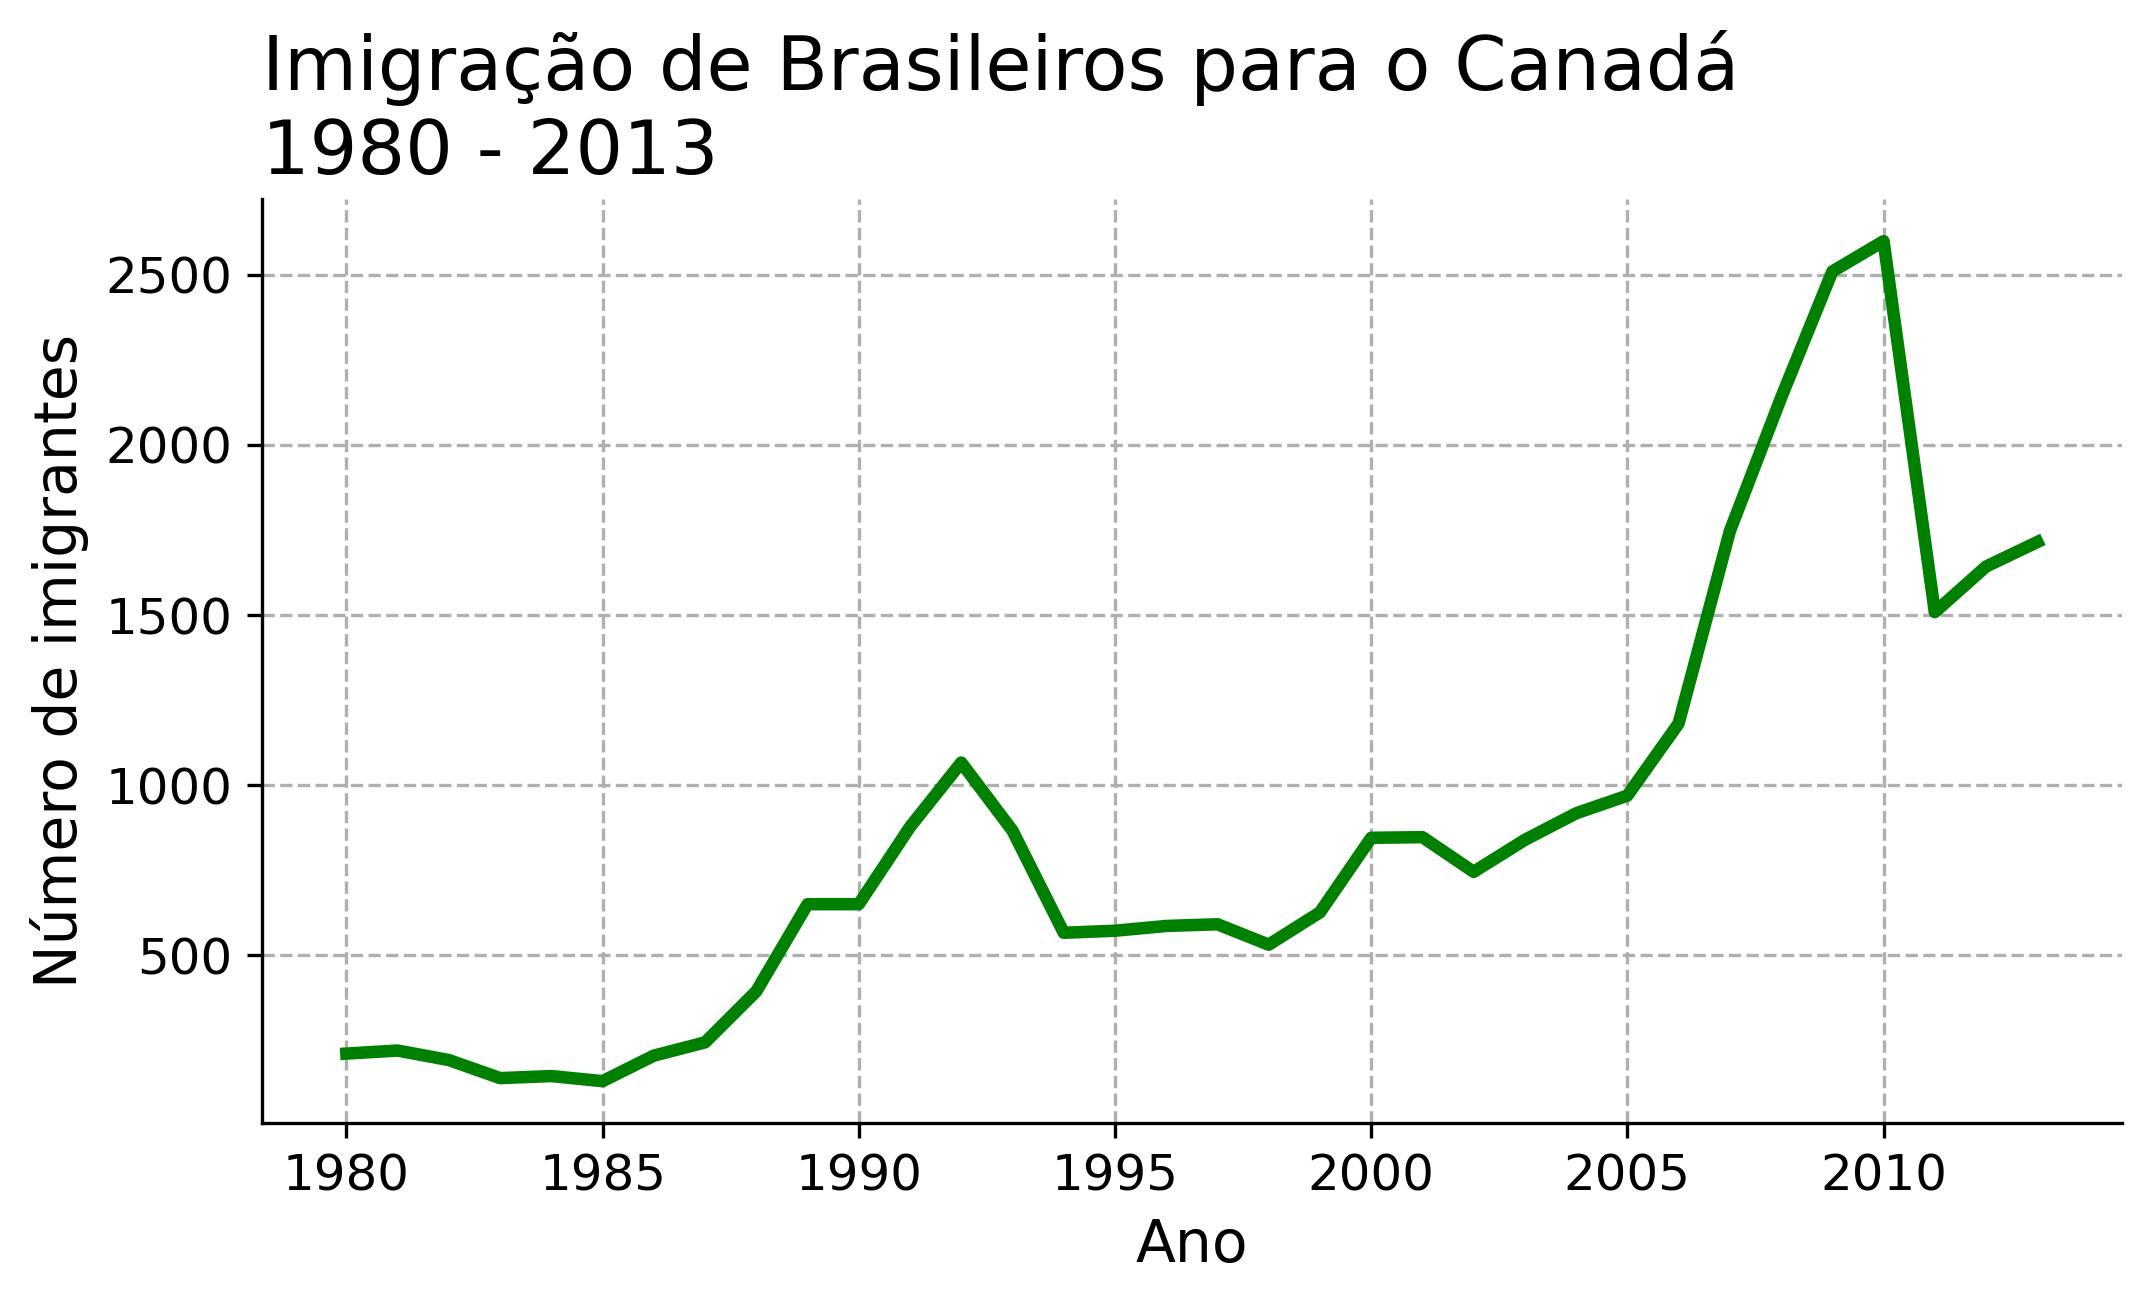
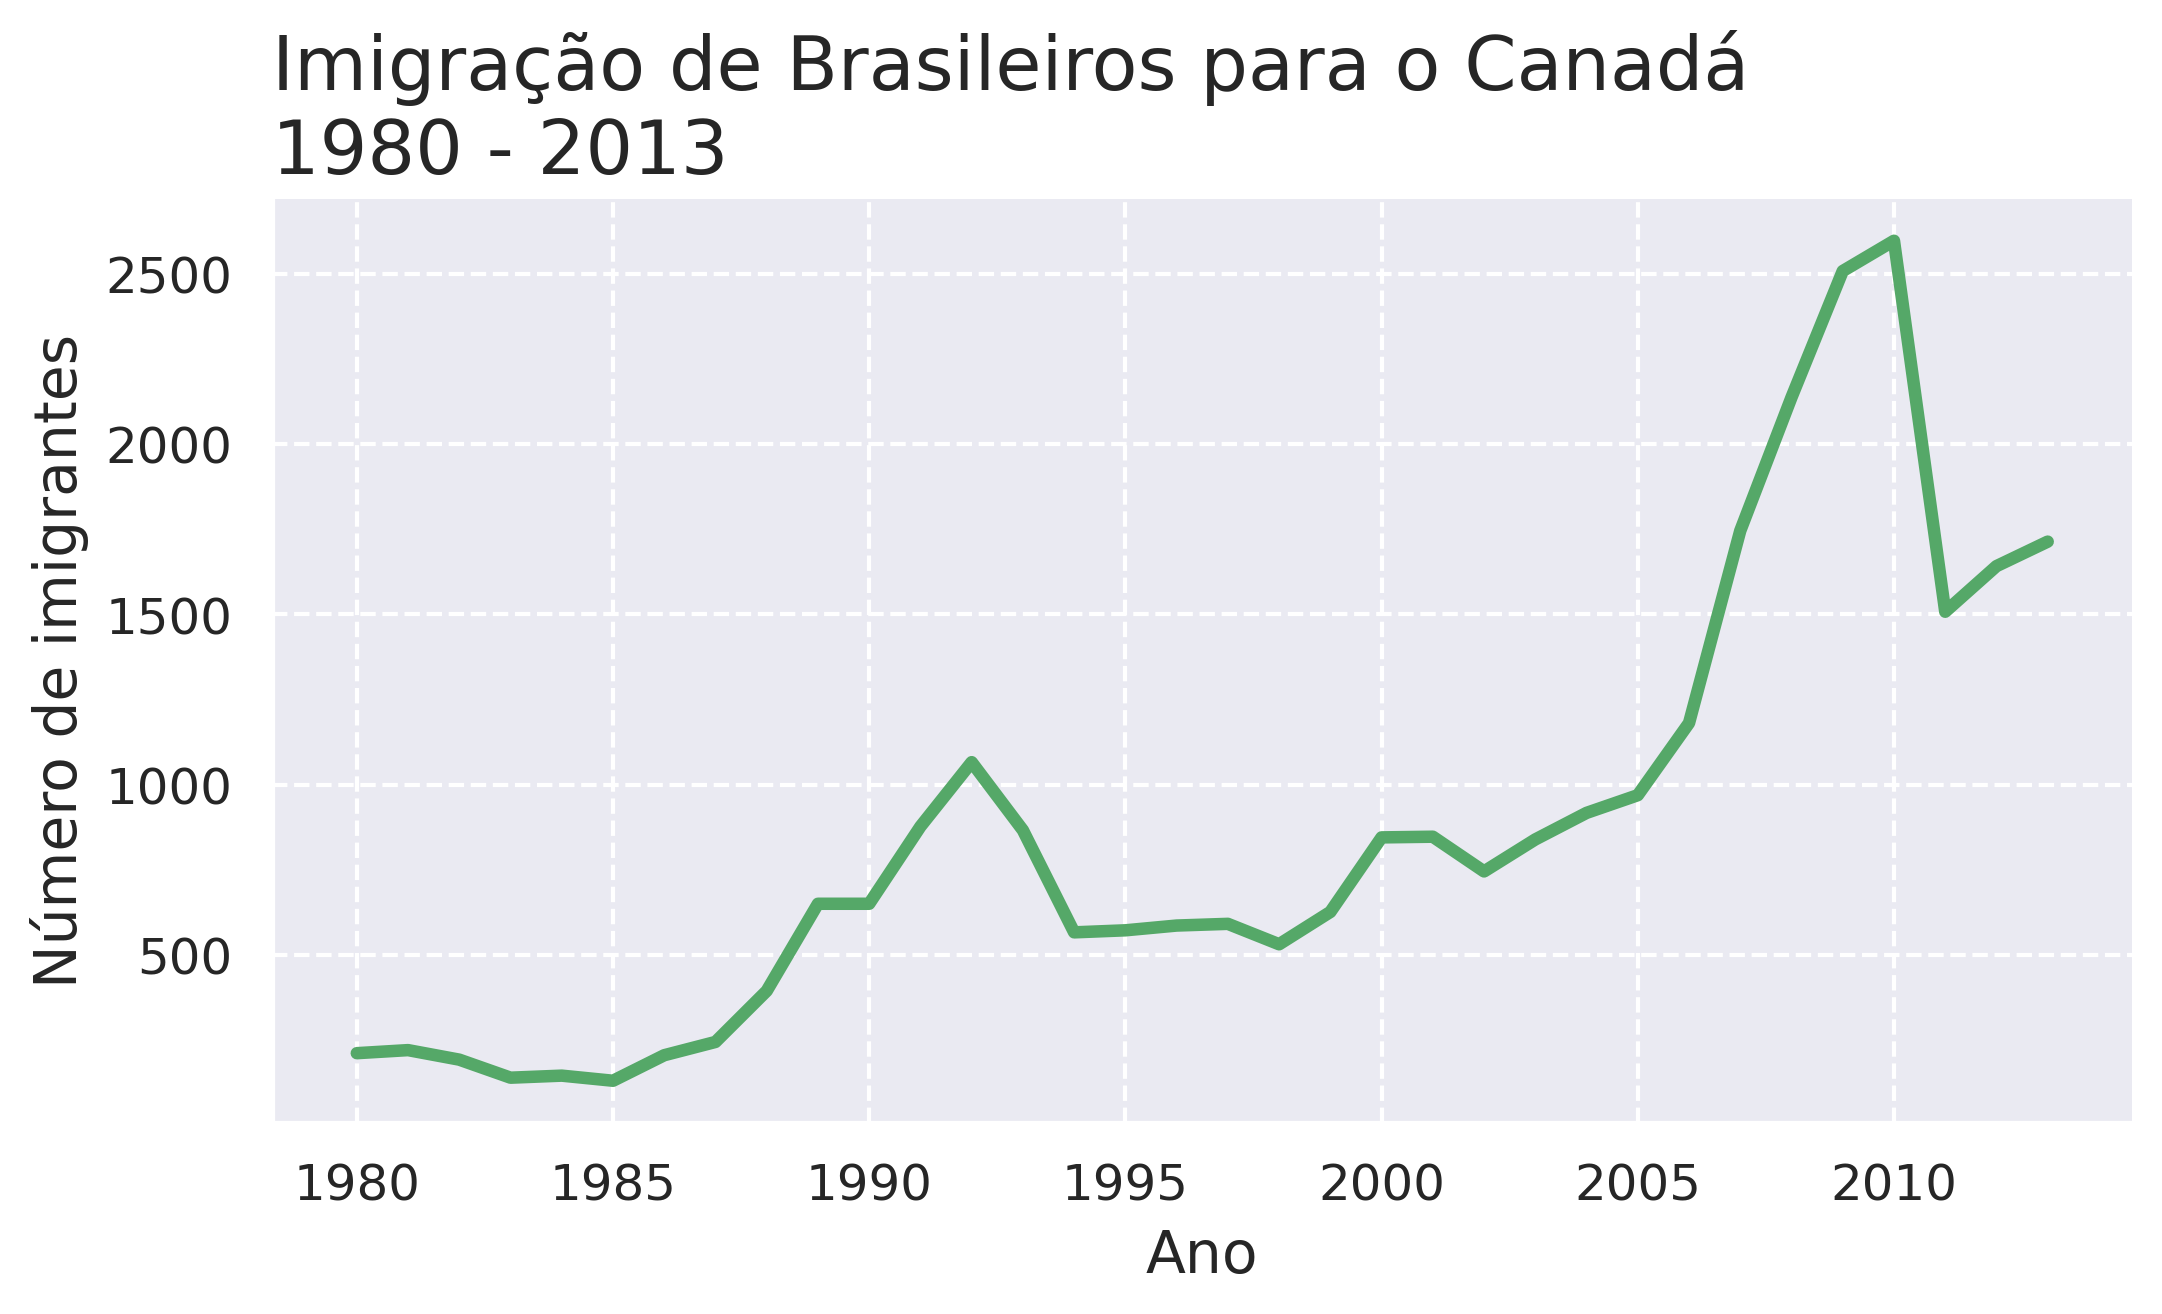
creating the first interactive graph

diff --git a/02-formacao_aprendendo-a-fazer-ETL/05-data-visualization_conhecendo-as-bibliotecas-python/05-graficos-interativos-com-plotly/desafio_criando-uma-animacao-para-comparar-diferentes-dados.py b/02-formacao_aprendendo-a-fazer-ETL/05-data-visualization_conhecendo-as-bibliotecas-python/05-graficos-interativos-com-plotly/desafio_criando-uma-animacao-para-comparar-diferentes-dados.py
@@ -1,0 +1,34 @@
+# Enunciado do desafio:
+'''
+Na atividade anterior foi possível compreender como criar uma animação com a biblioteca Plotly. Agora vem mais um desafio!
+
+Lembra que nós criamos uma figura estática contendo os dados de imigração do Brasil e Argentina? Sua tarefa é criar um gráfico animado com o Plotly que mostre esses dados. O gráfico deve ter as seguintes características:
+
+Duas linhas: uma para o Brasil e outra para a Argentina.
+Um botão "Play" para iniciar a animação, mostrando o aumento ou diminuição do número de imigrantes ao longo dos anos.
+As configurações de animação devem fazer com que as duas linhas sejam exibidas e animadas ao mesmo tempo.
+Dicas:
+
+Crie um DataFrame com os dados da Argentina e não se esqueça de deixar a coluna de anos no tipo int(inteiro).
+Use o código fornecido para o Brasil como base e adapte-o para incluir os dados da Argentina.
+Para configurar as animações você pode fazer um Loop for para percorrer o DataFrame dados_brasil e para cada iteração, criar uma nova lista contendo dois objetos do tipo go.Scatter, um para cada país. Em seguida, cada lista pode ser usada para criar um objeto go.Frame, que é adicionado à lista de frames. Por fim, a lista de frames pode ser atribuída ao objeto fig, que é a figura do gráfico a ser animado. Com isso, quando a animação for iniciada, o gráfico exibirá as duas linhas em movimento, uma para o Brasil e outra para a Argentina.
+'''
+
+# # Imports
+#
+import os
+import sys
+import re
+import pandas as pd
+import matplotlib.pyplot as plt
+
+cwd = os.getcwd()
+while bool(re.search(r'\d-', cwd)):
+    cwd = os.path.dirname(cwd)
+load_data_path = os.path.join(cwd)
+if load_data_path not in sys.path:
+    sys.path.append(load_data_path)
+from load_data import load_data
+
+data_folder = cwd + '/data/05-data-visualization_conhecendo-as-bibliotecas-python/'
+outputs_folder = data_folder + 'outputs/'

diff --git a/02-formacao_aprendendo-a-fazer-ETL/05-data-visualization_conhecendo-as-bibliotecas-python/aula.py b/02-formacao_aprendendo-a-fazer-ETL/05-data-visualization_conhecendo-as-bibliotecas-python/aula.py
@@ -8,6 +8,7 @@ import matplotlib.pyplot as plt
 import matplotlib.ticker as ticker
 from matplotlib.style.core import context
 import seaborn as sns
+import plotly.express as px
 
 cwd = os.getcwd()
 while bool(re.search(r'\d-', cwd)):
@@ -257,3 +258,7 @@ plt.show()
 # # # Section of the course:
 # 05. Gráficos interativos com Plotly
 # # #
+
+fig = px.line(brazil, x=brazil.index, y='immigrants', title='Imigração de Brasileiros para o Canadá\n1980 - 2013')
+fig.update_layout(xaxis_title='Ano', yaxis_title='Número de imigrantes', width=1000, height=500, xaxis_tickangle=-45)
+fig.show()
